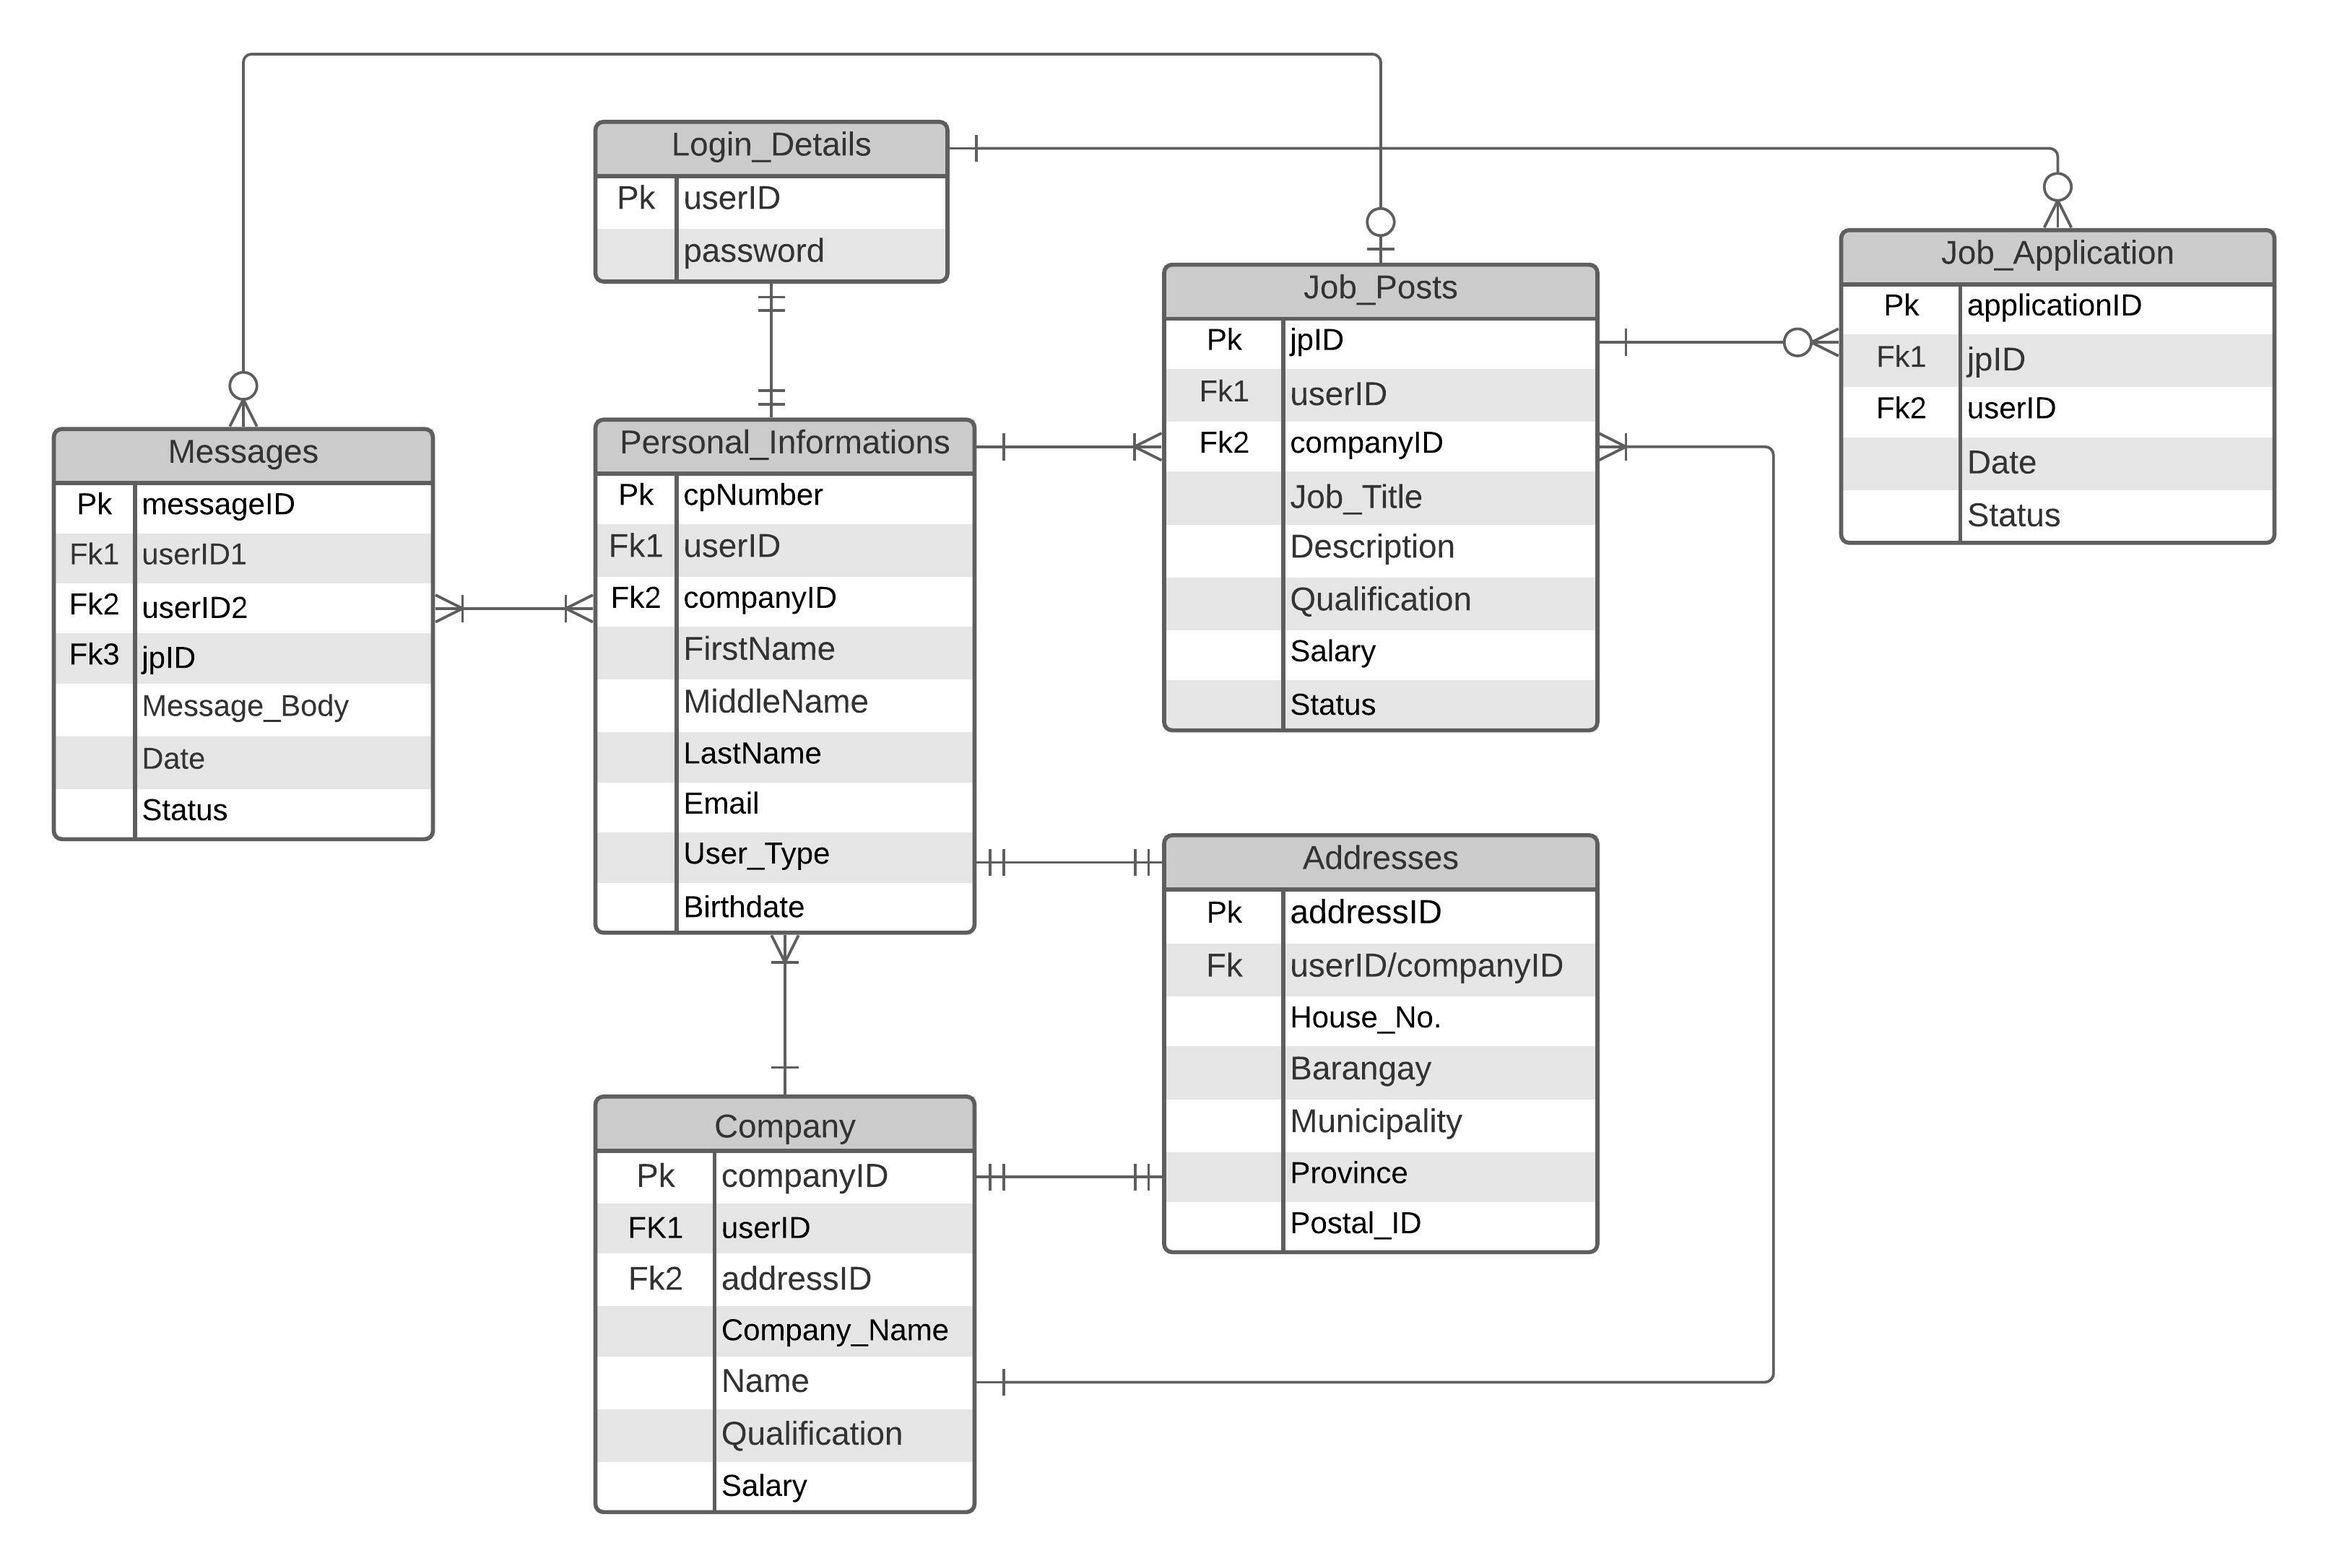
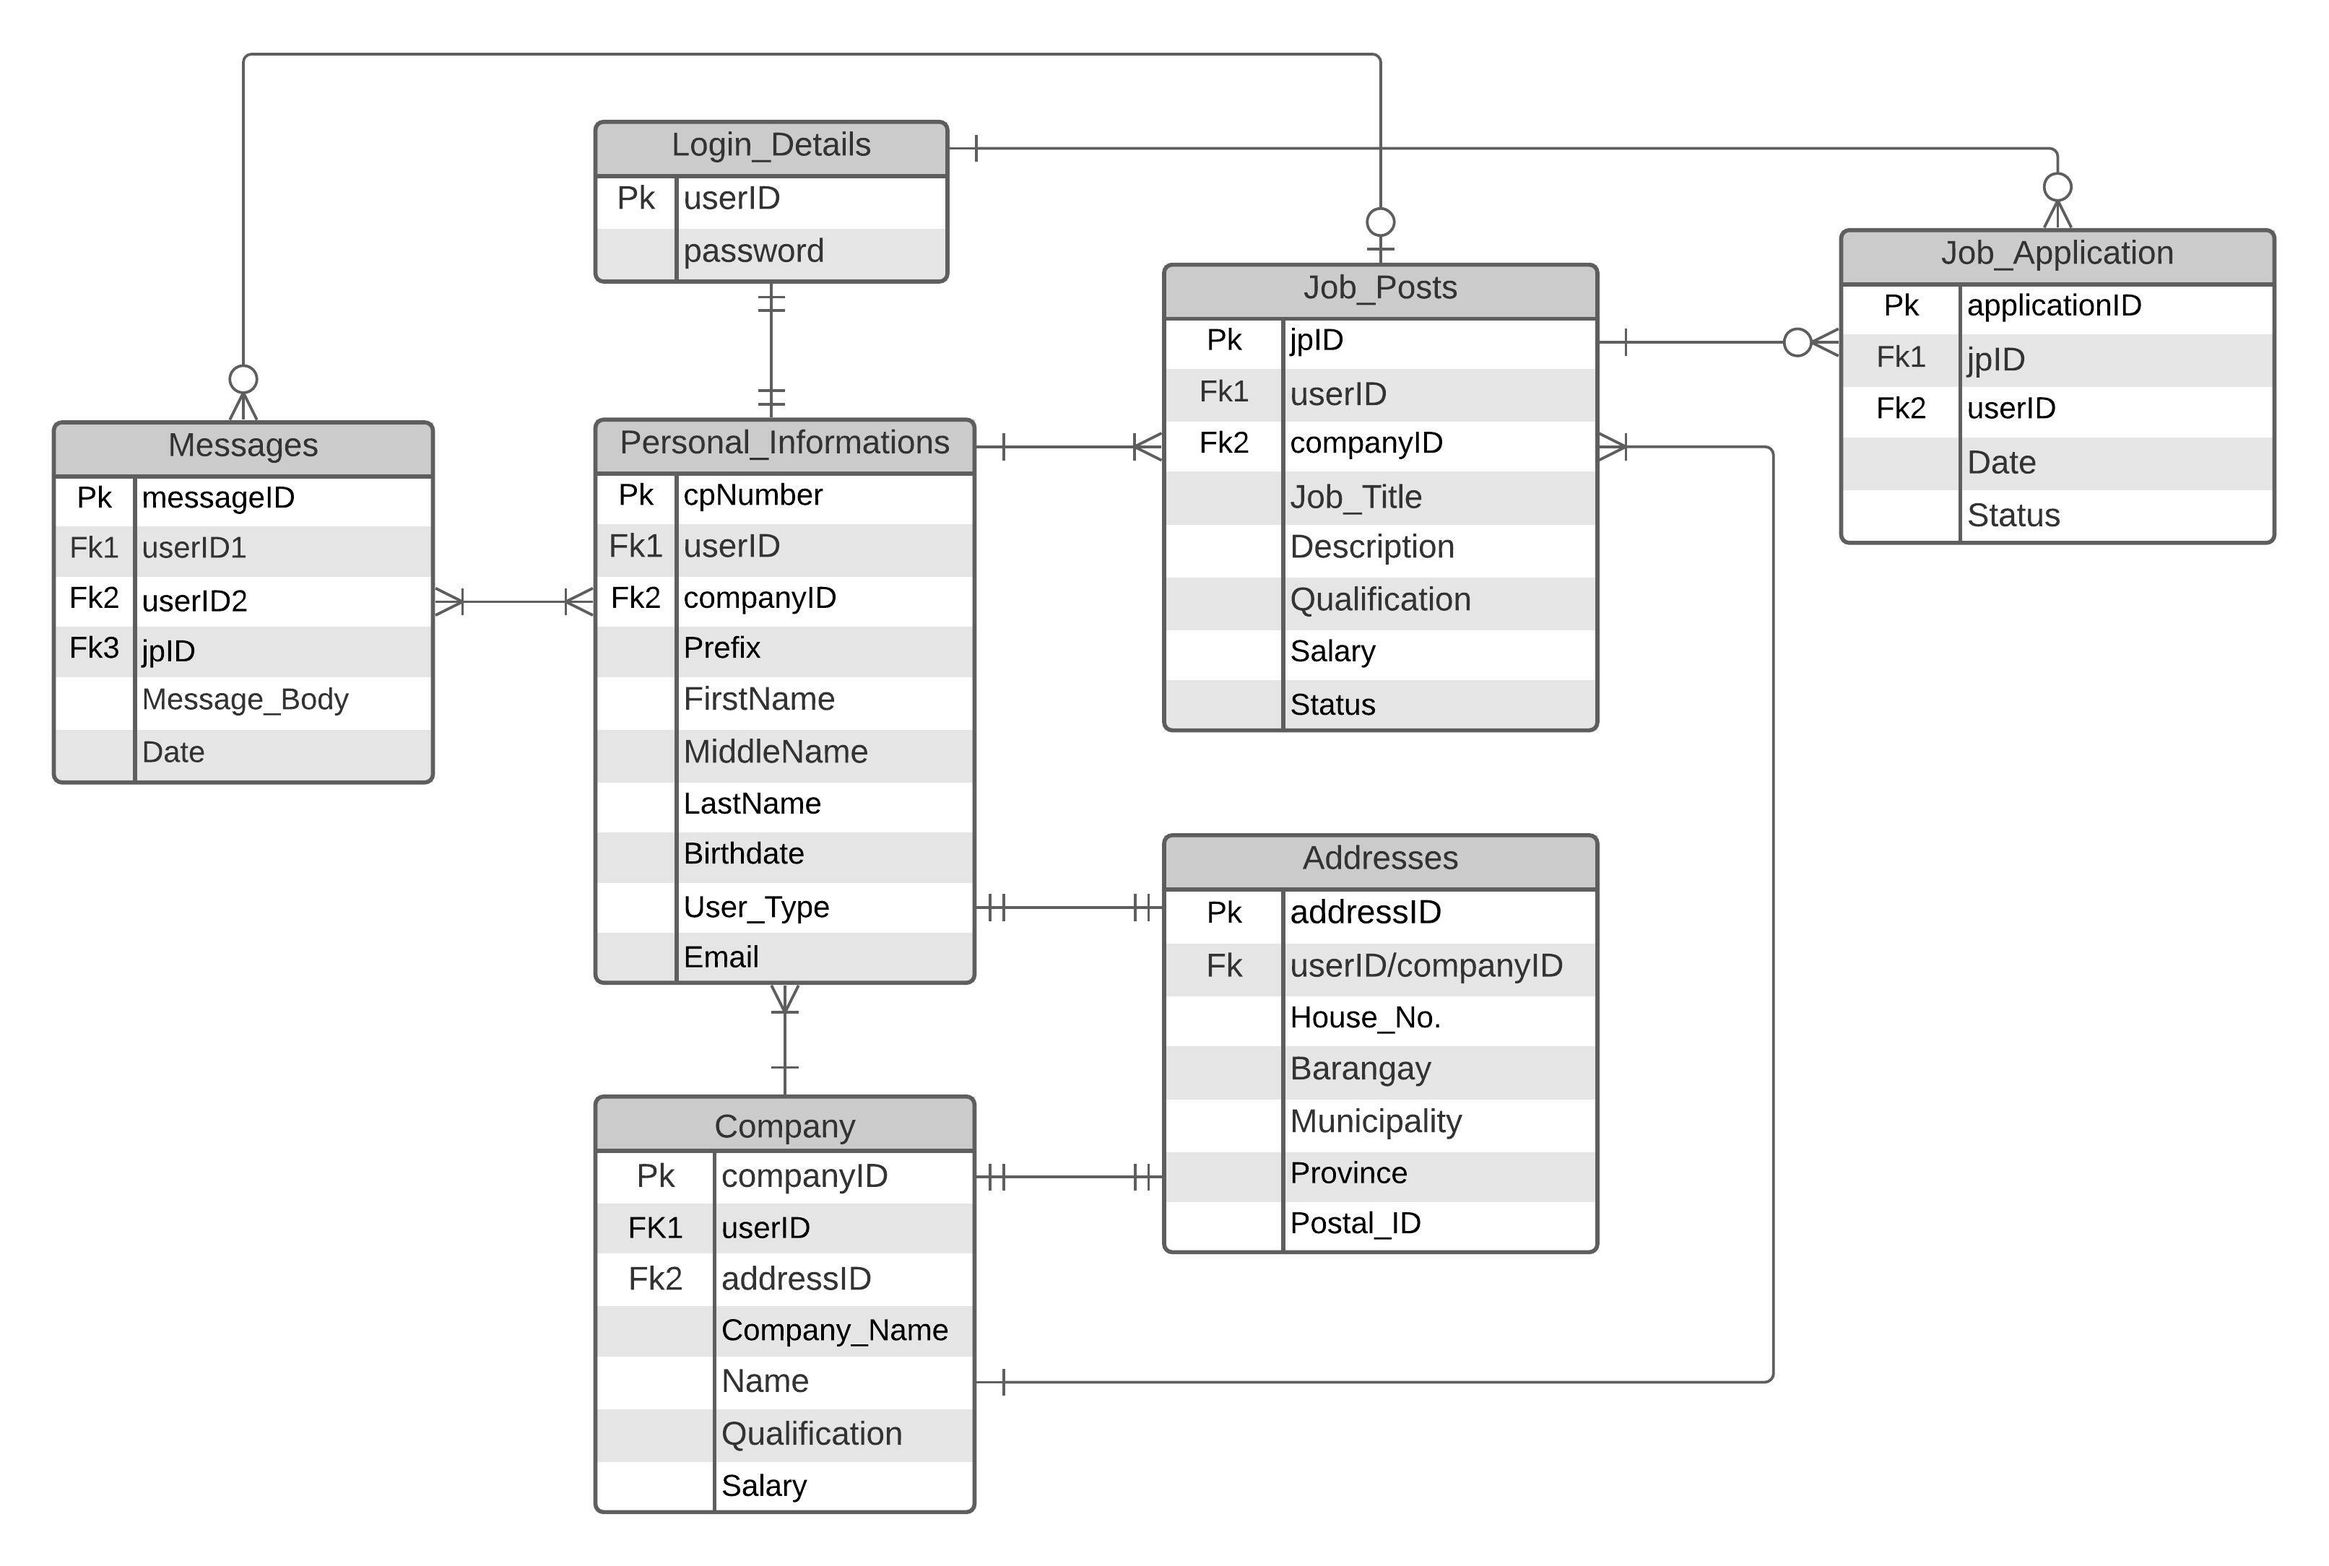
Updated
Modifty login page, add registration page, Modify db (personal_information table)

Changed region(s): [[0.031, 0.2471, 0.186, 0.556], [0.2481, 0.4016, 0.4341, 0.6487], [0.186, 0.3707, 0.2481, 0.4016]]

diff --git a/registration.html b/registration.html
@@ -1,0 +1,121 @@
+<!doctype html>
+<html lang="en">
+  <head>
+    <!-- Required meta tags -->
+    <meta charset="utf-8">
+    <meta name="viewport" content="width=device-width, initial-scale=1">
+
+    <!-- Bootstrap CSS -->
+    <link href="https://cdn.jsdelivr.net/npm/bootstrap@5.1.3/dist/css/bootstrap.min.css" rel="stylesheet" integrity="sha384-1BmE4kWBq78iYhFldvKuhfTAU6auU8tT94WrHftjDbrCEXSU1oBoqyl2QvZ6jIW3" crossorigin="anonymous">
+    <link rel="stylesheet" type="text/css" href="style.css">
+    <title>Registration Page</title>
+    <style type="text/css">
+    	a{
+    		text-decoration: none;
+    	}
+    	.container{
+        	background-color: white;
+        	border-radius: 30px;
+      	}
+      	.form-row{
+        	display: flex;
+        	flex-wrap: wrap;
+      	}
+      	.col-lg-3, .col-lg-6{
+        	padding-top: 1.5rem;
+        	padding-left: 1.5rem;
+      	}
+      	select, input{
+        	width: 185px;
+      	}
+    </style>
+  </head>
+  <body>
+
+    <section>
+      
+      <div class="container g-0 mt-5 mb-5">
+        
+        <div class="row g-0">
+          <div class="col-lg-12" id="headingContainer">
+            <p>Registration</p>
+          </div>
+        </div>
+        <div class="row g-0">
+          <form class="">
+            <div class="form-row">
+              <div class="col-lg-3">
+                <p>Prefix:</p>
+                <select>
+                  <option value="none">Choose Prefix:</option>
+                  <option value="Mr.">Mr.</option>
+                  <option value="Ms.">Ms.</option>
+                  <option value="Mrs.">Mrs.</option>
+                </select>
+              </div>
+              <div class="col-lg-3">
+                <p>First Name:</p>
+                <input type="email" placeholder="First Name">
+              </div>
+              <div class="col-lg-3">
+                <p>Middle Name:</p>
+                <input type="email" placeholder="Middle Name">
+              </div>
+              <div class="col-lg-3">
+                <p>Last Name:</p>
+                <input type="email" placeholder="Last Name">
+              </div>
+         
+              <div class="col-lg-3">
+                <p>User Type:</p>
+                <select>
+                  <option value="">Choose User Type</option>
+                  <option value="Applicant">Applicant</option>
+                  <option value="Employer">Employer</option>
+                </select> 
+              </div>
+              <div class="col-lg-3">
+                  <p>Email:</p>
+                  <input type="email" placeholder="Ex: abc@gmail.com">
+              </div>
+              <div class="col-lg-3">
+                  <p>Mobile No.:</p>
+                  <input type="tel" placeholder="Ex: +639123456789">
+              </div>
+              <div class="col-lg-3">
+                  <p>Birthdate:</p>
+                  <input type="date">
+              </div>
+              <div class="col-lg-3">
+                  <p>Username:</p>
+                  <input type="tel" placeholder="Username">
+              </div>
+              <div class="col-lg-3">
+                  <p>Password:</p>
+                  <input type="password" placeholder="Password">
+              </div>
+                <div class="col-lg-3">
+                  <p>Confirm Password:</p>
+                  <input type="password" placeholder="Retype Password">
+              </div>
+            </div>
+            <div class="form-row pb-3">
+                <div class="col-lg-6">
+                  <a href="index.html">
+                    <button type="button" class="btn" id="btnLogin">Register</button>
+                  </a>
+                  <a href="index.html">
+                    <button type="button" class="btn" id="btnLogin" onclick="'index.html'">Cancel</button>
+                  </a>
+                </div>
+            </div>
+            </div>
+          </form>
+        </div>
+      </div>
+
+    </section>
+
+  <script src="https://cdn.jsdelivr.net/npm/bootstrap@5.1.3/dist/js/bootstrap.bundle.min.js" integrity="sha384-ka7Sk0Gln4gmtz2MlQnikT1wXgYsOg+OMhuP+IlRH9sENBO0LRn5q+8nbTov4+1p" crossorigin="anonymous"></script>
+  </body>
+</html>

diff --git a/index.html b/index.html
@@ -9,7 +9,59 @@
     <link rel="stylesheet" type="text/css" href="style.css">
 
     <title>Login</title>
-
+    <style type="text/css">
+      .container{
+        border-style: none;
+      }
+      .row{
+        background: white;
+        border-style: solid;
+        border-radius: 30px;
+      }
+      img{
+        border-top-left-radius: 29px;
+        border-bottom-left-radius: 29px;
+      }
+      #loginLogo{
+        position: relative;
+        display: flex;
+      }
+      .img-fluid{
+        position: relative;
+      }
+      .container{
+        width: 70%;
+        height: 30%;
+      }
+      #btnLogin{
+        border: none;
+        outline: none;
+        height: 40px;
+        width: 100px;
+        background-color: #48b4e0;
+        color: white;
+        border-radius: 4px;
+        font-weight: bold;
+      }
+      @media screen and (max-width: 500px){
+        #loginLogo{
+          flex-direction: column;
+          max-width: 300px;
+          height: auto;
+        }
+        .img-fluid{
+          width: 100%;
+          height: 220px;
+        }
+      }
+      @media screen and (max-width: 1000px){
+        img{
+          border-bottom-left-radius: 0px;
+          border-top-left-radius: 29px;
+          border-top-right-radius: 29px;
+        }
+      }
+    </style>
   </head>
 
   <body>
@@ -17,16 +69,16 @@
   	<section class="loginForm my-5 mx-5 py-5">
   		<div class="container">
   			<div class="row g-0">
-  				<div class="col-lg-5">
-  					<img src="images/administrator.png" class="img-fluid" alt="Administrator Logo">
+  				<div class="col-lg-5" id="loginLogo">
+  					<img src="images/administrator.png" class="img-fluid" alt="Administrator Logo"> 
   				</div>
-  				<div class="col-lg-7 px-5 pt-5">
-  					<p style="font-size: 40px">Online Job Finder</p>
+  				<div class="col-lg-7 px-5 pt-5" id="colForm">
+  					<p class="heading">Online Job Finder</p>
   					<p><i>We find jobs for you...</i></p>
   					<form class="">
   						<div class="form-row">
   							<div class="col-lg-7">
-  								<input type="email" placeholder="User ID" class="form-control my-3">
+  								<input type="email" placeholder="Username" class="form-control my-3">
   							</div>
   						</div>
   						<div class="form-row">
@@ -36,12 +88,11 @@
   						</div>
   						<div class="form-row">
   							<div class="col-lg-7">
-  								<button type="button" class="btnLogin my-2">Login</button>
+  								<button type="button" class="btn my-2" id="btnLogin">Login</button>
   							</div>
   						</div>
   						<a href="#" class="my-2">Forgot Password?</a>
-  						<p class="my-2">Don't Have an Account?</p>
-						<p class="my-2"><a href="#">Register Here</a></p>	
+  						<p class="my-2">Don't Have an Account? <a href="registration.html">Register Here</a></p>					
   					</form>
   				</div>
   			</div>

diff --git a/style.css b/style.css
@@ -6,25 +6,31 @@
 body{
 	background: rgb(219, 226, 226);
 }
-.row{
-	background: white;
-	border-radius: 30px;
-	border-style: solid;
+.heading{
+	font-size: 40px;
+	font-weight: 100;
 }
-img{
-	border-radius: 30px;
+#headingContainer{
+ 	background-color: #48b4e0;
+ 	border-top-left-radius: 28px;
+ 	border-top-right-radius: 28px;
+ 	text-align: center;
+}
+#headingContainer p{
+ 	color: white;
+ 	font-size: 30px;
+ 	margin-top: 5px;
 }
 .container{
-	width: 70%;
-	height: 30%;
+	border-style: solid;
 }
-.btnLogin{
+.btn{
 	border: none;
-	outline: none;
-	height: 40px;
-	width: 100px;
-	background-color: #00b3b3;
-	color: white;
-	border-radius: 4px;
-	font-weight: bold;
+    outline: none;
+    height: 40px;
+    width: 100px;
+    background-color: #48b4e0;
+    color: white;
+    border-radius: 4px;
+    font-weight: bold;
 }
